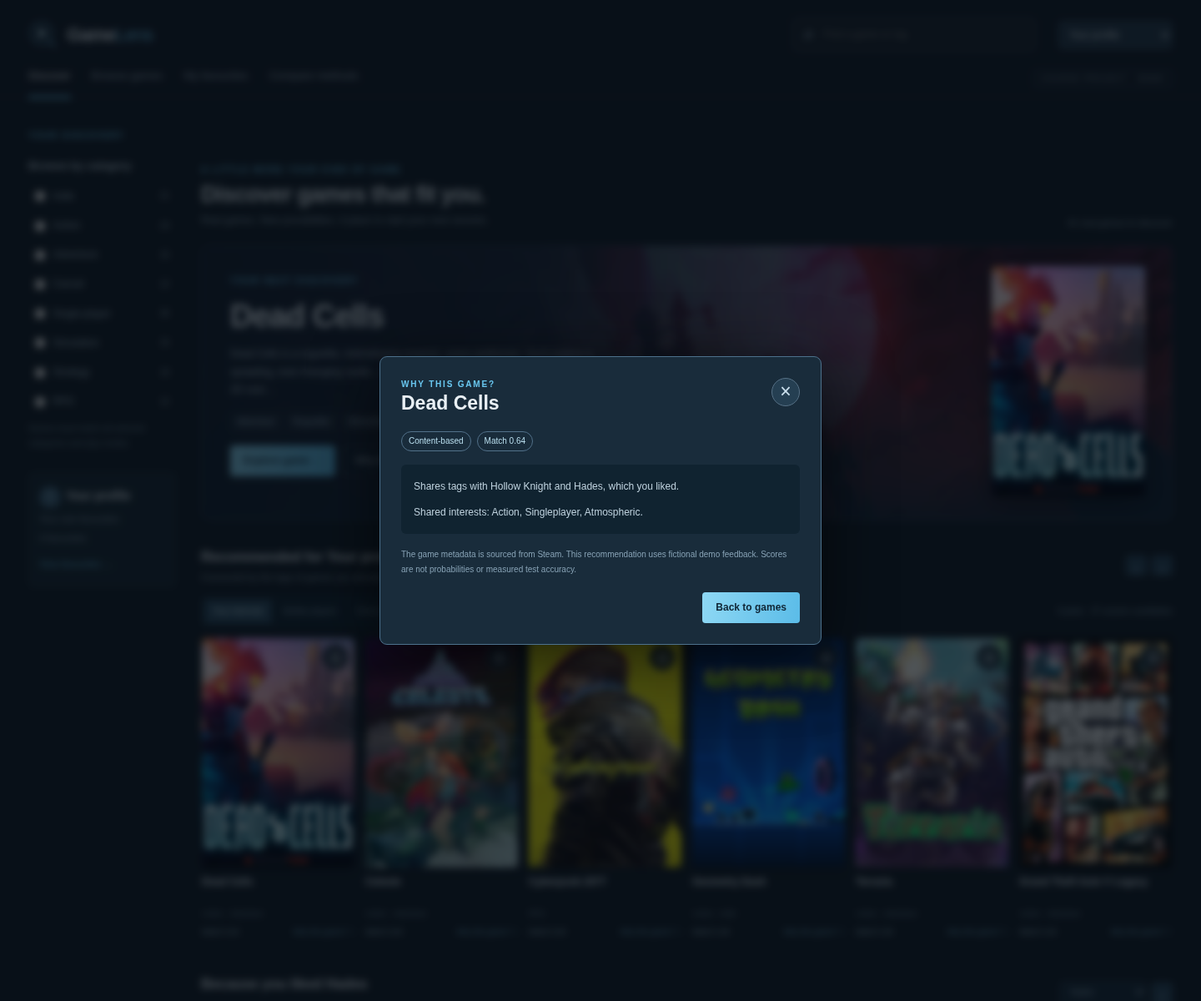
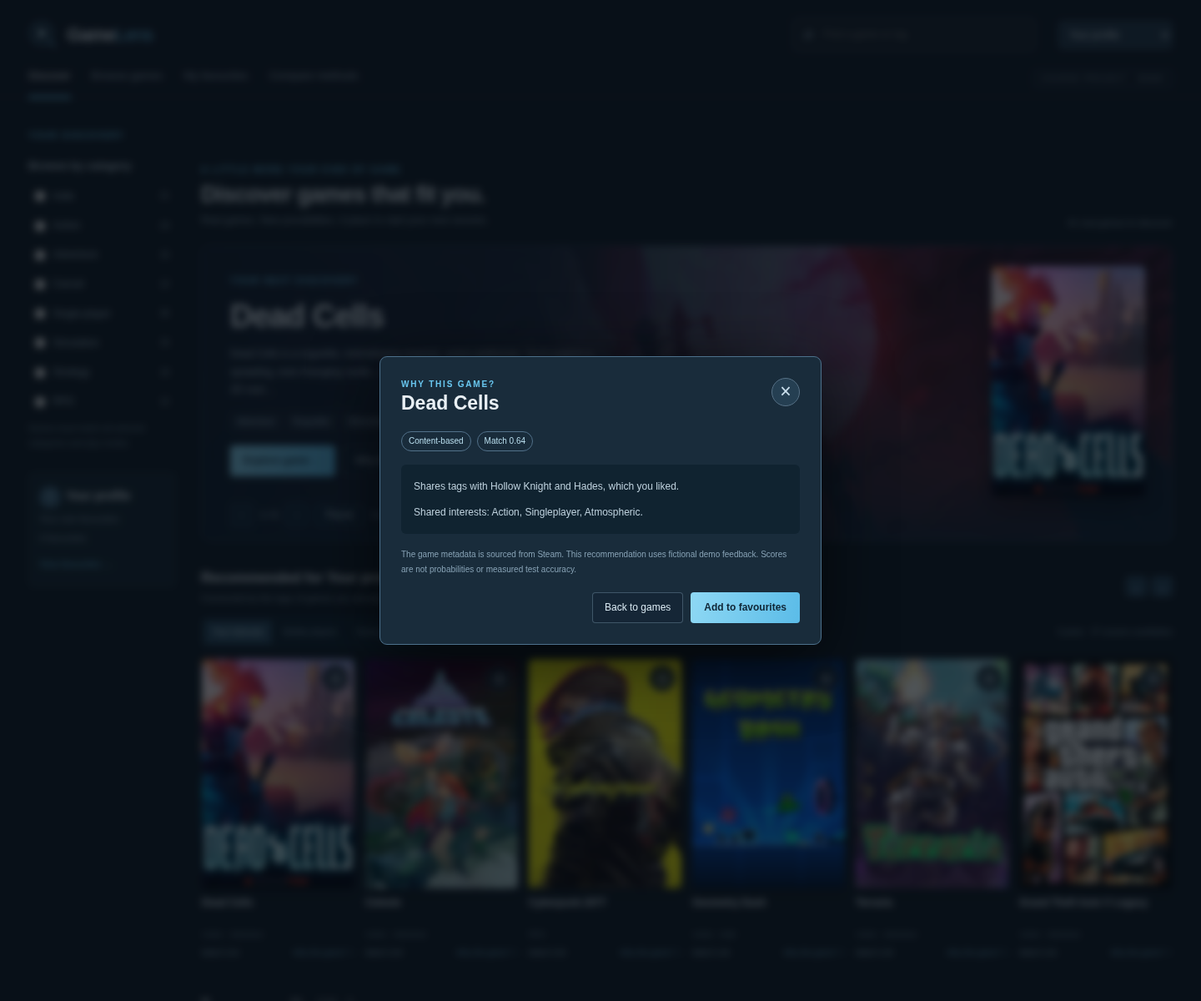
Rotate featured games and replace favourites directly from recommendations

diff --git a/part_b/demo/index.html b/part_b/demo/index.html
@@ -14,13 +14,15 @@ dialog{width:min(740px,calc(100% - 28px));padding:25px;border:1px solid #4d718c;
 @media(prefers-reduced-motion:reduce){*{scroll-behavior:auto!important;transition:none!important;animation:none!important}}
 .selection-bar{display:flex;align-items:center;gap:16px;padding:14px 16px;margin-bottom:18px;background:#172c3c;border:1px solid #3a566c;border-radius:6px}.selection-bar p{flex:1;margin:0;color:var(--muted);font-size:11px}.selection-bar .primary{white-space:nowrap}.selection-count{font-size:11px;white-space:nowrap;color:#e5ce91}.empty-actions{display:flex;justify-content:center;gap:9px;flex-wrap:wrap}.browser-bar{flex-wrap:wrap}.browser-bar input{flex:1;min-width:140px}.browser-bar>span{white-space:nowrap}
 @media(max-width:550px){.selection-bar{flex-wrap:wrap;gap:10px;padding:12px}.selection-bar p{flex-basis:100%;font-size:10px}.selection-count{font-size:10px}.selection-bar .primary{margin-left:auto;font-size:10px;padding:8px 10px}.browser-bar input{min-width:0;flex:1 1 150px}.empty{padding:24px 14px}.empty-actions .primary,.empty-actions .secondary{font-size:11px}}
+.hero-slide{position:relative;min-height:inherit}.hero-content{padding-bottom:77px}.hero-controls{position:absolute;z-index:2;bottom:17px;left:34px;display:flex;align-items:center;gap:9px;color:#b5cede;font-size:11px}.hero-controls button{display:grid;place-items:center;min-width:27px;height:27px;padding:0 8px;border:1px solid #5c7c9299;border-radius:4px;background:#122536d9;color:#d5e9f5;font-size:12px}.hero-controls button:hover{background:#2b506b}.hero-controls #heroToggle{min-width:58px}.hero-interval{font-size:10px;color:#93b3c9}.hero-measure{position:absolute;top:0;left:0;width:100%;visibility:hidden;pointer-events:none}.reason-actions{gap:9px;flex-wrap:wrap}.replacement-dialog[open]{display:flex;flex-direction:column;overflow:hidden}.replacement-dialog .dialog-header,.replacement-incoming,.replacement-actions{flex-shrink:0}.replacement-incoming{display:flex;gap:12px;align-items:center;padding:10px 12px;margin:0 0 14px;background:#112330;border:1px solid #41647c;border-radius:5px;font-size:12px}.replacement-incoming img{width:40px;height:60px;object-fit:cover;border-radius:3px}.replacement-incoming span{font-size:10px;color:var(--muted);display:block}.replacement-incoming strong{overflow-wrap:anywhere}#replacementForm{display:flex;flex-direction:column;min-height:0}.replacement-list{display:grid;grid-template-columns:repeat(2,minmax(0,1fr));gap:8px;overflow:auto;min-height:0;max-height:47vh;overscroll-behavior:contain;touch-action:pan-y;padding:3px;scrollbar-width:thin}.replacement-choice{display:flex;align-items:center;gap:9px;padding:8px;border:1px solid #425c70;border-radius:5px;background:#142736;cursor:pointer;min-width:0;font-size:11px}.replacement-choice:has(input:checked){border-color:#e7c568;background:#3b3524}.replacement-choice:focus-within{outline:2px solid var(--blue);outline-offset:1px}.replacement-choice input{accent-color:#e7c568;margin:0;flex-shrink:0}.replacement-choice img{width:30px;height:45px;object-fit:cover;border-radius:2px;flex-shrink:0}.replacement-choice span{overflow-wrap:anywhere}.replacement-actions{display:flex;gap:9px;justify-content:flex-end;padding-top:16px}
+@media(max-width:1150px){.hero-controls{left:26px}}@media(max-width:550px){.hero-controls{left:22px;gap:7px}.hero-interval{font-size:9px}.replacement-list{grid-template-columns:1fr}.replacement-choice{font-size:10px}.replacement-incoming{font-size:11px}.replacement-actions .primary,.replacement-actions .secondary{font-size:11px}}
 </style>
 </head>
 <body>
 <header class="topbar"><div class="top-inner"><div class="top-line"><a class="brand" href="#discover" aria-label="GameLens home"><svg viewBox="0 0 40 40" fill="none" aria-hidden="true"><circle cx="18" cy="18" r="14.5" stroke="#72c8ef" stroke-width="1.5"/><path d="m28.5 28.5 8 8" stroke="#72c8ef" stroke-width="2" stroke-linecap="round"/><path d="m14 10.8 12 7.2-12 7.2V10.8Z" fill="#b9e6fa"/></svg><span>Game<b>Lens</b></span></a><label class="search"><input id="globalSearch" type="search" placeholder="Find a game or tag" aria-label="Search games"></label><div class="player-tools"><select id="profile" aria-label="Choose a player profile"><option value="new">Your profile</option></select></div></div><div class="nav-row"><nav class="nav" aria-label="Main navigation"><button data-view="discover" class="active">Discover</button><button data-view="browse">Browse games</button><button data-view="favourites">My favourites</button><button data-view="compare">Compare methods</button></nav><span class="demo-label">COURSE PROJECT · DEMO</span></div></div></header>
 <div class="workspace"><aside class="sidebar"><div id="categoryFilters"><div class="eyebrow">YOUR DISCOVERY</div><h2>Browse by category</h2><div class="facet-list" id="facetList"></div><button class="clear" id="clearFilters">Clear filters</button><p class="sidebar-note">Games must match all selected categories and play modes.</p></div><div class="profile-mini"><div><span class="avatar" id="avatar">A</span><strong id="playerName">Alex</strong></div><p id="playerTaste">Strategy · Puzzles</p><p id="profileCount"></p><button data-view="favourites">View favourites →</button></div></aside>
 <main id="main"><div class="filter-summary" id="filterSummary"></div><p class="page-status" id="status" role="status" aria-live="polite">Loading your discovery…</p>
-<section id="discoverView" hidden><div class="page-heading"><div><div class="eyebrow">A LITTLE MORE YOUR KIND OF GAME</div><h1>Discover games that fit you.</h1><p>Real games. New possibilities. A place to start your next session.</p></div><span class="catalogue-count" id="catalogueCount"></span></div><section class="hero" id="hero" hidden></section>
+<section id="discoverView" hidden><div class="page-heading"><div><div class="eyebrow">A LITTLE MORE YOUR KIND OF GAME</div><h1>Discover games that fit you.</h1><p>Real games. New possibilities. A place to start your next session.</p></div><span class="catalogue-count" id="catalogueCount"></span></div><section class="hero" id="hero" role="region" aria-roledescription="carousel" aria-label="Featured recommendations" hidden><div class="hero-slide" id="heroSlide"></div><div class="hero-controls" id="heroControls" hidden><button data-hero="previous" aria-label="Previous featured game">‹</button><span id="heroPosition" aria-live="off"></span><button data-hero="next" aria-label="Next featured game">›</button><button id="heroToggle" data-hero="toggle" aria-pressed="false" aria-label="Pause automatic game rotation">Pause</button><span class="hero-interval">Every 6 seconds</span></div></section>
 <section class="section"><div class="section-top"><div><h2 id="resultTitle">Recommended for you</h2><p class="section-sub" id="resultSubtitle">Discover games that connect with your favourites.</p></div><div class="row-actions"><button class="row-arrow" data-scroll="recommendations:-1" aria-label="Previous recommendations">‹</button><button class="row-arrow" data-scroll="recommendations:1" aria-label="Next recommendations">›</button></div></div><div class="section-controls"><div class="methods" role="group" aria-label="Recommendation method"><button class="method" data-method="content" aria-pressed="true">Your interests</button><button class="method" data-method="collaborative" aria-pressed="false">Similar players</button><button class="method" data-method="popular" aria-pressed="false">Demo popularity</button></div><select id="limit" class="tiny-select" aria-label="Number of recommendations"><option value="6">Show 6 games</option><option value="12">Show 12 games</option></select><span id="resultMeta" class="results-meta"></span></div><div class="shelf" id="recommendations" aria-busy="true"></div></section>
 <section class="section" id="relatedSection" hidden><div class="section-top"><div><h2 id="relatedTitle"></h2><p class="section-sub">A fresh starting point, based on one game.</p></div><div class="row-actions"><select id="seedSelect" class="tiny-select" aria-label="Choose a favourite for related recommendations"></select><button class="row-arrow" data-scroll="relatedGames:1" aria-label="Next related games">›</button></div></div><div class="shelf" id="relatedGames"></div></section>
 <section class="section"><div class="section-top"><div><h2>Most played on Steam</h2><p class="section-sub" id="chartDate">Official chart snapshot, separate from personal recommendations.</p></div><div class="row-actions"><button class="section-link" id="browseChart">Browse chart →</button><button class="row-arrow" data-scroll="chartGames:1" aria-label="Next chart games">›</button></div></div><div class="shelf" id="chartGames"></div></section></section>
@@ -29,9 +31,10 @@ dialog{width:min(740px,calc(100% - 28px));padding:25px;border:1px solid #4d718c;
 <section id="compareView" hidden><div class="page-heading"><div><div class="eyebrow">A LOOK UNDER THE HOOD</div><h1>Compare recommendation methods</h1><p>Three ways to explore the same catalogue and example feedback.</p></div></div><div class="scope-note">This is a ranking demonstration, not a test-set evaluation. Content similarity, peer support and like counts use different scales. Their numbers are not directly comparable or probabilities. The formal project still needs a real interaction dataset and held-out evaluation.</div><div class="comparison-grid" id="comparisonGrid"></div></section>
 <div class="sample-note"><span id="dataNote"></span> <button id="openSources">View sources & artwork credits ↗</button></div></main></div>
 <footer><span>GAMELENS · PERSONALISED GAME DISCOVERY</span><span>ITP4524 · PYTHON RECOMMENDATION PROTOTYPE</span></footer><div class="toast" id="toast" role="status" hidden></div>
-<dialog id="reasonDialog" class="reason-dialog" aria-labelledby="reasonTitle" aria-describedby="reasonSummary reasonDetail"><div class="dialog-header"><div><div class="eyebrow">WHY THIS GAME?</div><h2 id="reasonTitle"></h2></div><button class="close" id="closeReason" aria-label="Close recommendation explanation" autofocus>×</button></div><div class="reason-meta"><span id="reasonMethod"></span><span id="reasonScore"></span></div><div class="reason-copy"><p id="reasonSummary"></p><p id="reasonDetail"></p></div><p class="reason-note">The game metadata is sourced from Steam. This recommendation uses fictional demo feedback. Scores are not probabilities or measured test accuracy.</p><div class="reason-actions"><button class="primary" id="dismissReason">Back to games</button></div></dialog>
+<dialog id="reasonDialog" class="reason-dialog" aria-labelledby="reasonTitle" aria-describedby="reasonSummary reasonDetail"><div class="dialog-header"><div><div class="eyebrow">WHY THIS GAME?</div><h2 id="reasonTitle"></h2></div><button class="close" id="closeReason" aria-label="Close recommendation explanation" autofocus>×</button></div><div class="reason-meta"><span id="reasonMethod"></span><span id="reasonScore"></span></div><div class="reason-copy"><p id="reasonSummary"></p><p id="reasonDetail"></p></div><p class="reason-note">The game metadata is sourced from Steam. This recommendation uses fictional demo feedback. Scores are not probabilities or measured test accuracy.</p><div class="reason-actions"><button class="secondary" id="dismissReason">Back to games</button><button class="primary" id="reasonFavourite">Add to favourites</button></div></dialog>
 <dialog id="detailDialog" aria-labelledby="detailTitle"><div class="dialog-header"><div><div class="eyebrow">GAME DETAILS</div><h2 id="detailTitle"></h2></div><button class="close" data-close="detailDialog" aria-label="Close game details">×</button></div><div id="detailContent"></div></dialog>
 <dialog id="sourcesDialog" aria-labelledby="sourcesTitle"><div class="dialog-header"><div><div class="eyebrow">PROVENANCE</div><h2 id="sourcesTitle">Real games. Traceable sources.</h2></div><button class="close" data-close="sourcesDialog" aria-label="Close sources">×</button></div><div class="source-copy" id="sourceContent"></div></dialog>
+<dialog id="replacementDialog" class="replacement-dialog" aria-labelledby="replacementTitle" aria-describedby="replacementHint"><div class="dialog-header"><div><h2 id="replacementTitle">Replace a favourite</h2><p id="replacementHint">You have 8 favourites. Choose one to replace with this game.</p></div><button class="close" data-close="replacementDialog" aria-label="Close favourite replacement">×</button></div><div class="replacement-incoming" id="replacementIncoming"></div><form id="replacementForm"><div class="replacement-list" id="replacementOptions"></div><div class="replacement-actions"><button type="button" class="secondary" data-close="replacementDialog">Cancel</button><button type="submit" class="primary" id="confirmReplacement" disabled>Replace &amp; add</button></div></form></dialog>
 <script>
 'use strict';
 const $=id=>document.getElementById(id);
@@ -39,6 +42,8 @@ const esc=value=>String(value??'').replace(/[&<>"']/g,c=>({'&':'&amp;','<':'&lt;
 const FILTERS=['Indie','Action','Adventure','Casual','Single-player','Simulation','Strategy','RPG'];
 let catalog,byId={},requestNumber=0,compareNumber=0,toastTimer,storageAvailable=true;
 let recommendations=[],related=[],explanations=new Map();
+const HERO_INTERVAL=6000;
+let heroIndex=0,heroTimer=null,heroPaused=false,heroHovered=false,heroResizeTimer=null,pendingFavourite=null;
 const state={profile_id:'new',method:'popular',liked:[],filters:[],limit:6,view:'browse',search:'',sort:'title',seed_id:null};
 const FAVOURITES_KEY='gamelens.favourites.v1';
 function getActivePlayer(){if(state.profile_id==='new'){const ids=state.liked||[];return {id:'new',name:'Your profile',initial:'Y',taste:ids.length?'Your own favourites':'Choose games you enjoy',ratings:Object.fromEntries(ids.map(id=>[id,5]))};}return catalog.profiles.find(p=>p.id===state.profile_id);}
@@ -58,7 +63,7 @@ function updatePlayer(){
  $('profile').value=state.profile_id;$('avatar').textContent=player.initial;$('playerName').textContent=player.name;$('playerTaste').textContent=player.taste;
  $('profileCount').textContent=`${count} ${count===1?'favourite':'favourites'}`;
  $('selectionCount').textContent=`${count} / 8 favourites`;
- $('browseHint').textContent=count===8?'You have 8 favourites. Remove a gold star to make room for another game.':'Star games you enjoy to personalise your recommendations.';
+ $('browseHint').textContent=count===8?'You have 8 favourites. Star another game to choose one to replace.':'Star games you enjoy to personalise your recommendations.';
  $('viewPicks').textContent=count?'View recommendations →':'View popular picks →';
  $('favouritesNote').textContent=state.profile_id==='new'?`These favourites shape your recommendations.${storageAvailable?' Saved in this browser for this address.':''}`:`${player.name} is a fictional example player. Changing a star copies these favourites to Your profile.`;
  renderFavourites();
@@ -82,7 +87,29 @@ function emptyRecommendations(data){
  if(data.method==='collaborative')return empty(data.neighbour_count?'No unseen picks from similar players':'No similar players yet','The example feedback does not support more picks for these favourites. Your interests can still use the game tags.','<button class="primary" data-method="content">Use your interests →</button>');
  return empty('No matching picks yet','Try adding another favourite to give us more to work with.',browse);
 }
-function renderHero(){const game=recommendations[0];$('hero').hidden=!game;if(!game)return;const key=explanationKey(game,state.method);$('hero').innerHTML=`<div class="hero-bg" style="background-image:url('${game.hero_url||game.header_url}')"></div><div class="hero-content"><div class="eyebrow">${state.method==='popular'?'POPULAR IN THE DEMO':'YOUR NEXT DISCOVERY'}</div><h2>${esc(game.title)}</h2><p class="hero-description">${esc(game.description.length>190?game.description.slice(0,187)+'…':game.description)}</p><div class="hero-tags">${game.tags.slice(0,3).map(t=>`<span class="tag">${esc(t)}</span>`).join('')}</div><div class="hero-actions"><button class="primary" data-detail="${esc(game.id)}">Explore game →</button><button class="secondary" data-why="${esc(key)}">Why this pick?</button></div></div><img class="hero-poster" src="${esc(game.cover_url)}" alt="${esc(game.title)} cover" width="300" height="450">`;}
+function heroCopy(game){const key=explanationKey(game,state.method);return `<div class="hero-content"><div class="eyebrow">${state.method==='popular'?'POPULAR IN THE DEMO':'YOUR NEXT DISCOVERY'}</div><h2>${esc(game.title)}</h2><p class="hero-description">${esc(game.description.length>190?game.description.slice(0,187)+'…':game.description)}</p><div class="hero-tags">${game.tags.slice(0,3).map(t=>`<span class="tag">${esc(t)}</span>`).join('')}</div><div class="hero-actions"><button class="primary" data-detail="${esc(game.id)}">Explore game →</button><button class="secondary" data-why="${esc(key)}">Why this pick?</button></div></div>`;}
+function stopHeroRotation(){clearTimeout(heroTimer);heroTimer=null;}
+function scheduleHeroRotation(){
+ stopHeroRotation();
+ if(heroPaused||heroHovered||recommendations.length<2||state.view!=='discover'||document.hidden||document.querySelector('dialog[open]')||$('heroSlide').contains(document.activeElement)||$('recommendations').getAttribute('aria-busy')==='true')return;
+ heroTimer=setTimeout(()=>{heroIndex=(heroIndex+1)%recommendations.length;showHeroSlide();scheduleHeroRotation();},HERO_INTERVAL);
+}
+function sizeHero(){
+ if(!recommendations.length||$('hero').hidden||state.view!=='discover')return;
+ // Keep the banner height stable across this recommendation set.
+ const measure=document.createElement('div');measure.className='hero-measure';measure.setAttribute('aria-hidden','true');measure.inert=true;measure.innerHTML=recommendations.map(heroCopy).join('');$('hero').append(measure);
+ const height=Math.max(parseFloat(getComputedStyle($('hero')).minHeight)||0,...[...measure.children].map(element=>element.getBoundingClientRect().height));
+ $('heroSlide').style.minHeight=`${Math.ceil(height)}px`;measure.remove();
+}
+function showHeroSlide(){
+ const game=recommendations[heroIndex];if(!game)return;
+ $('hero').dataset.game=game.id;
+ $('heroSlide').innerHTML=`<div class="hero-bg" style="background-image:url('${game.hero_url||game.header_url}')"></div>${heroCopy(game)}<img class="hero-poster" src="${esc(game.cover_url)}" alt="${esc(game.title)} cover" width="300" height="450">`;
+ $('heroPosition').textContent=`${heroIndex+1} / ${recommendations.length}`;
+ $('heroToggle').textContent=heroPaused?'Play':'Pause';$('heroToggle').setAttribute('aria-pressed',String(heroPaused));$('heroToggle').setAttribute('aria-label',heroPaused?'Resume automatic game rotation':'Pause automatic game rotation');
+}
+function renderHero(){stopHeroRotation();heroIndex=0;$('hero').hidden=!recommendations.length;$('heroControls').hidden=recommendations.length<2;if(!recommendations.length){$('heroSlide').replaceChildren();delete $('hero').dataset.game;return;}showHeroSlide();sizeHero();scheduleHeroRotation();}
+function controlHero(action){if(!recommendations.length||$('recommendations').getAttribute('aria-busy')==='true')return;if(action==='toggle')heroPaused=!heroPaused;else heroIndex=(heroIndex+(action==='next'?1:-1)+recommendations.length)%recommendations.length;showHeroSlide();scheduleHeroRotation();}
 function renderRecommendations(data){
  recommendations=data.results;$('resultTitle').textContent=state.method==='popular'?'Popular among example players':`Recommended for ${getActivePlayer().name}`;
  $('resultSubtitle').textContent=state.method==='collaborative'?'Games supported by example players with shared favourites.':state.method==='popular'?(likedIds().length?'A non-personalised baseline, using fictional sample likes.':'Popular picks to get started. Star games you enjoy to personalise your recommendations.'):'Connected by the tags of games you already like.';
@@ -105,35 +132,61 @@ function setView(view){
  state.view=view;document.querySelectorAll('.nav [data-view]').forEach(button=>{const active=button.dataset.view===view;button.classList.toggle('active',active);if(active)button.setAttribute('aria-current','page');else button.removeAttribute('aria-current');});
  for(const name of ['discover','browse','favourites','compare'])$(name+'View').hidden=name!==view;
  $('categoryFilters').hidden=view==='favourites';$('filterSummary').hidden=view==='favourites';$('globalSearch').value=view==='browse'?state.search:'';document.querySelector('.profile-mini [data-view="favourites"]').hidden=view==='favourites';
- if(view==='browse')renderBrowse();if(view==='favourites')renderFavourites();if(view==='compare')loadComparison();
+ if(view==='browse')renderBrowse();if(view==='favourites')renderFavourites();if(view==='compare')loadComparison();if(view==='discover')sizeHero();scheduleHeroRotation();
 }
 function startBrowsing(){state.search='';state.filters=[];renderFilters();setView('browse');loadRecommendations();}
 function clearFilters(){state.filters=[];renderFilters();loadRecommendations();}
-async function loadRecommendations(feedbackDelay=0){const current=++requestNumber;++compareNumber;for(const dialog of document.querySelectorAll('dialog[open]'))dialog.close();document.querySelectorAll('[data-why]').forEach(b=>b.disabled=true);$('recommendations').setAttribute('aria-busy','true');$('status').textContent='Finding your next games…';
+async function loadRecommendations(feedbackDelay=0){stopHeroRotation();$('heroControls').querySelectorAll('button').forEach(button=>button.disabled=true);const current=++requestNumber;++compareNumber;for(const dialog of document.querySelectorAll('dialog[open]'))dialog.close();document.querySelectorAll('[data-why]').forEach(b=>b.disabled=true);$('recommendations').setAttribute('aria-busy','true');$('status').textContent='Finding your next games…';
  const liked=likedIds();const seed=state.seed_id||(liked[0]||null);try{const [main,similar]=await Promise.all([api(params()),seed?api(params('content',{seed_id:seed})):Promise.resolve(null),new Promise(resolve=>setTimeout(resolve,feedbackDelay))]);if(current!==requestNumber)return;explanations.clear();renderRecommendations(main);renderRelated(similar,seed);renderChart();renderBrowse();renderFavourites();$('status').textContent='';if(state.view==='compare')loadComparison();}
  catch(error){if(current===requestNumber){$('status').textContent='Unable to load recommendations. Keep demo.py running and try again.';}}
- finally{if(current===requestNumber)$('recommendations').setAttribute('aria-busy','false');}
+ finally{if(current===requestNumber){$('recommendations').setAttribute('aria-busy','false');if(!$('status').textContent){$('heroControls').querySelectorAll('button').forEach(button=>button.disabled=false);scheduleHeroRotation();}}}
 }
 async function loadComparison(){const current=++compareNumber;const methods=['content','collaborative','popular'];$('comparisonGrid').innerHTML='<p>Loading method rankings…</p>';try{const results=await Promise.all(methods.map(method=>api(params(method,{limit:6}))));if(current!==compareNumber)return;const labels={content:['Content-based','Cosine similarity from Steam tags.'],collaborative:['Collaborative','Weighted support from similar example players.'],popular:['Popularity baseline','Number of positive ratings in the fictional sample.']};$('comparisonGrid').innerHTML=results.map(data=>`<section class="compare-column"><h2>${labels[data.method][0]}</h2><p>${labels[data.method][1]}</p>${data.results.length?data.results.map((g,index)=>{const key=explanationKey(g,data.method,'comparison');return `<div class="compare-row"><span>${index+1}</span><img src="${esc(g.cover_url)}" alt="${esc(g.title)} cover" width="300" height="450"><div><strong>${esc(g.title)}</strong><span>${data.method==='popular'?`${g.score} demo likes`:`${data.method==='content'?'Match':'Support'} ${g.score.toFixed(2)}`}</span><br><button data-why="${esc(key)}">Why this game?</button></div></div>`;}).join(''):emptyRecommendations(data)}</section>`).join('');}catch(error){if(current===compareNumber)$('comparisonGrid').innerHTML=empty('Comparison unavailable','Keep demo.py running and try again.');}}
 // Shared fixed-body lock keeps all modal scrolling separate from the page.
 const modalTriggers=new Map();let backgroundSnapshot=null;
-function openModal(dialog,trigger){if(dialog.open)return;if(modalTriggers.size===0){const root=document.documentElement,body=document.body;const gap=window.innerWidth-root.clientWidth;const padding=parseFloat(getComputedStyle(body).paddingRight)||0;backgroundSnapshot={x:window.scrollX,y:window.scrollY,rootStyle:root.getAttribute('style'),bodyStyle:body.getAttribute('style')};root.style.overflow='hidden';root.style.overscrollBehavior='none';body.style.position='fixed';body.style.top=`-${backgroundSnapshot.y}px`;body.style.left=`-${backgroundSnapshot.x}px`;body.style.width='100%';body.style.overflow='hidden';body.style.paddingRight=`${padding+gap}px`;}modalTriggers.set(dialog,trigger);dialog.showModal();}
-document.querySelectorAll('dialog').forEach(dialog=>{dialog.addEventListener('close',()=>{const trigger=modalTriggers.get(dialog);modalTriggers.delete(dialog);if(modalTriggers.size===0&&backgroundSnapshot){const saved=backgroundSnapshot;for(const [element,style] of [[document.documentElement,saved.rootStyle],[document.body,saved.bodyStyle]]){if(style===null)element.removeAttribute('style');else element.setAttribute('style',style);}backgroundSnapshot=null;window.scrollTo(saved.x,saved.y);if(trigger&&trigger.isConnected)trigger.focus({preventScroll:true});}});dialog.addEventListener('click',event=>{if(event.target!==dialog)return;const b=dialog.getBoundingClientRect();if(event.clientX<b.left||event.clientX>b.right||event.clientY<b.top||event.clientY>b.bottom)dialog.close();});});
-function showReason(key,trigger){const item=explanations.get(key);if(!item)return;const {game,method}=item;$('reasonTitle').textContent=game.title;$('reasonSummary').textContent=game.reason;$('reasonDetail').textContent=game.detail;$('reasonMethod').textContent={content:'Content-based',collaborative:'Similar players',popular:'Demo popularity'}[method];$('reasonScore').textContent=method==='popular'?`${game.score} example likes`:`${method==='content'?'Match':'Peer support'} ${game.score.toFixed(2)}`;openModal($('reasonDialog'),trigger);}
+function openModal(dialog,trigger){if(dialog.open)return;stopHeroRotation();if(modalTriggers.size===0){const root=document.documentElement,body=document.body;const gap=window.innerWidth-root.clientWidth;const padding=parseFloat(getComputedStyle(body).paddingRight)||0;backgroundSnapshot={x:window.scrollX,y:window.scrollY,rootStyle:root.getAttribute('style'),bodyStyle:body.getAttribute('style'),trigger};root.style.overflow='hidden';root.style.overscrollBehavior='none';body.style.position='fixed';body.style.top=`-${backgroundSnapshot.y}px`;body.style.left=`-${backgroundSnapshot.x}px`;body.style.width='100%';body.style.overflow='hidden';body.style.paddingRight=`${padding+gap}px`;}modalTriggers.set(dialog,trigger);dialog.showModal();}
+document.querySelectorAll('dialog').forEach(dialog=>{dialog.addEventListener('close',()=>{const trigger=modalTriggers.get(dialog);modalTriggers.delete(dialog);if(modalTriggers.size===0&&backgroundSnapshot){const saved=backgroundSnapshot;for(const [element,style] of [[document.documentElement,saved.rootStyle],[document.body,saved.bodyStyle]]){if(style===null)element.removeAttribute('style');else element.setAttribute('style',style);}backgroundSnapshot=null;window.scrollTo(saved.x,saved.y);if(saved.trigger?.isConnected)saved.trigger.focus({preventScroll:true});}else if(trigger?.isConnected&&trigger.closest('dialog')?.open){trigger.focus({preventScroll:true});}if(dialog.id==='replacementDialog')pendingFavourite=null;scheduleHeroRotation();});dialog.addEventListener('click',event=>{if(event.target!==dialog)return;const b=dialog.getBoundingClientRect();if(event.clientX<b.left||event.clientX>b.right||event.clientY<b.top||event.clientY>b.bottom)dialog.close();});});
+function showReason(key,trigger){const item=explanations.get(key);if(!item)return;const {game,method}=item;$('reasonTitle').textContent=game.title;$('reasonSummary').textContent=game.reason;$('reasonDetail').textContent=game.detail;$('reasonMethod').textContent={content:'Content-based',collaborative:'Similar players',popular:'Demo popularity'}[method];$('reasonScore').textContent=method==='popular'?`${game.score} example likes`:`${method==='content'?'Match':'Peer support'} ${game.score.toFixed(2)}`;const liked=likedIds().includes(game.id);$('reasonFavourite').dataset.like=game.id;$('reasonFavourite').textContent=liked?'Remove from favourites':'Add to favourites';$('reasonFavourite').setAttribute('aria-pressed',String(liked));openModal($('reasonDialog'),trigger);}
 
 function applyLikes(ids,feedbackDelay=0){state.liked=[...new Set(ids)];state.profile_id='new';state.method=ids.length?'content':'popular';state.seed_id=null;saveFavourites();updatePlayer();renderFilters();loadRecommendations(feedbackDelay);}
-function toggleLike(id,trigger){const ids=likedIds();const selected=!ids.includes(id);if(!selected)ids.splice(ids.indexOf(id),1);else{if(ids.length>=8){showToast('Choose up to 8 favourites. Remove a gold star in My favourites to make room.');return;}ids.push(id);}
- document.querySelectorAll('.favourite').forEach(button=>{if(button.dataset.like!==id)return;button.setAttribute('aria-pressed',String(selected));button.setAttribute('aria-label',`${selected?'Remove':'Add'} ${byId[id].title} ${selected?'from':'to'} favourites`);button.classList.remove('is-lighting');});
- const animate=selected&&trigger?.classList.contains('favourite')&&!window.matchMedia('(prefers-reduced-motion: reduce)').matches;
+function commitFavouriteChange(ids,id,trigger,message){
+ const selected=ids.includes(id);
+ document.querySelectorAll('.favourite').forEach(button=>{const liked=ids.includes(button.dataset.like);button.setAttribute('aria-pressed',String(liked));button.setAttribute('aria-label',`${liked?'Remove':'Add'} ${byId[button.dataset.like].title} ${liked?'from':'to'} favourites`);button.classList.remove('is-lighting');});
+ const animate=selected&&trigger?.classList.contains('favourite')&&trigger.isConnected&&!window.matchMedia('(prefers-reduced-motion: reduce)').matches;
  if(animate)trigger.classList.add('is-lighting');
  for(const dialog of document.querySelectorAll('dialog[open]'))dialog.close();
  // Keep the clicked card visible while its star lights up; requests run in parallel.
- applyLikes(ids,animate?460:0);showToast(selected?'Added to your custom favourites.':'Removed from your custom favourites.');
+ applyLikes(ids,animate?460:0);showToast(message);
+}
+function openFavouriteReplacement(id,trigger){
+ const ids=likedIds();pendingFavourite={id,trigger,profile_id:state.profile_id,ids:[...ids]};
+ $('replacementIncoming').innerHTML=`<img src="${esc(byId[id].cover_url)}" alt="" width="300" height="450"><div><span>New favourite</span><strong>${esc(byId[id].title)}</strong></div>`;
+ $('replacementOptions').innerHTML=ids.map(key=>`<label class="replacement-choice"><input type="radio" name="replaceFavourite" value="${esc(key)}" required><img src="${esc(byId[key].cover_url)}" alt="" width="300" height="450"><span>${esc(byId[key].title)}</span></label>`).join('');
+ $('confirmReplacement').disabled=true;openModal($('replacementDialog'),trigger);$('replacementOptions').scrollTop=0;
+}
+function confirmFavouriteReplacement(){
+ const pending=pendingFavourite,chosen=$('replacementOptions').querySelector('input:checked');if(!pending||!chosen)return;
+ const ids=likedIds();if(pending.profile_id!==state.profile_id||JSON.stringify(ids)!==JSON.stringify(pending.ids)||!ids.includes(chosen.value)||ids.includes(pending.id)){showToast('Your favourites changed. Choose the new game again.');$('replacementDialog').close();return;}
+ const removed=chosen.value;const next=ids.map(id=>id===removed?pending.id:id);pendingFavourite=null;
+ commitFavouriteChange(next,pending.id,pending.trigger,`Replaced ${byId[removed].title} with ${byId[pending.id].title}.`);
+}
+function toggleLike(id,trigger){
+ if(!Object.hasOwn(byId,id))return;
+ const ids=likedIds(),selected=!ids.includes(id);
+ if(!selected)ids.splice(ids.indexOf(id),1);else{if(ids.length>=8){openFavouriteReplacement(id,trigger);return;}ids.push(id);}
+ commitFavouriteChange(ids,id,trigger,selected?'Added to your custom favourites.':'Removed from your custom favourites.');
 }
 function showDetail(id,trigger){const game=byId[id];if(!game)return;$('detailTitle').textContent=game.title;$('detailContent').innerHTML=`<div class="detail-body"><img class="detail-poster" src="${esc(game.cover_url)}" alt="${esc(game.title)} cover" width="300" height="450"><div class="detail-copy"><p>${esc(game.description)}</p><div class="hero-tags">${game.tags.slice(0,6).map(t=>`<span class="tag">${esc(t)}</span>`).join('')}</div><div class="detail-facts">Developer: ${esc(game.developers.join(', ')||'Not supplied')}<br>Publisher: ${esc(game.publishers.join(', ')||'Not supplied')}<br>${game.release_date.coming_soon?'Planned release':'Release date'}: ${esc(game.release_date.date||'Not supplied')}<br>Steam App ID: ${game.steam_app_id}</div></div></div><div class="detail-actions"><button class="primary" data-like="${esc(id)}">${likedIds().includes(id)?'Remove from':'Add to'} favourites</button><button class="secondary" data-similar="${esc(id)}">See similar games</button><a class="secondary" href="${esc(game.store_url)}" target="_blank" rel="noopener noreferrer">View on Steam ↗</a></div><p class="source-date">Official metadata and artwork retrieved ${esc(formatDate(game.source.retrieved_at_utc))}. Artwork © its respective rights holders.</p>`;openModal($('detailDialog'),trigger);}
 function showSources(trigger){const info=catalog.source_info;$('sourceContent').innerHTML=`<ul><li><strong>Game catalogue:</strong> ${catalog.games.length} verified Steam games. Names, descriptions, genres and tags come from official Steam store data.</li><li><strong>Artwork:</strong> official Steam library capsules, headers and hero art. All displayed portrait covers are complete 2:3 images stored locally for this demo.</li><li><strong>Most-played section:</strong> a <a href="${esc(info.chart_page_url)}" target="_blank" rel="noopener noreferrer">Steam chart snapshot</a>, retrieved ${esc(formatDate(info.retrieved_at_utc))}. Chart rollup: ${esc(formatDate(info.chart_rollup_date*1000))}. Non-game software was excluded; original ranks are retained.</li><li><strong>Player feedback:</strong> ${catalog.profiles.length} fictional example profiles. It is not a downloaded Steam interaction dataset.</li><li><strong>Evaluation:</strong> no real-data recommendation test results are claimed in this prototype.</li></ul><p>${esc(info.rights_note)}</p><a class="secondary" href="/sources/artwork_sources.csv" download>Download artwork source record</a>`;openModal($('sourcesDialog'),trigger);}
-document.addEventListener('click',event=>{const button=event.target.closest('button');if(!button)return;if(button.dataset.close)$(button.dataset.close).close();else if(button.dataset.why)showReason(button.dataset.why,button);else if(button.dataset.detail)showDetail(button.dataset.detail,button);else if(button.dataset.like)toggleLike(button.dataset.like,button);else if(button.dataset.similar){state.seed_id=button.dataset.similar;$('detailDialog').close();setView('discover');loadRecommendations().then(()=>$('relatedSection').scrollIntoView({block:'start'}));}else if(button.dataset.action==='browse'){startBrowsing();}else if(button.dataset.action==='clear-filters'){clearFilters();}else if(button.dataset.view){setView(button.dataset.view);}else if(button.dataset.method){state.method=button.dataset.method;if(state.view==='compare')setView('discover');loadRecommendations();}else if(button.dataset.removeFilter){state.filters=state.filters.filter(t=>t!==button.dataset.removeFilter);renderFilters();loadRecommendations();}else if(button.dataset.scroll){const [id,direction]=button.dataset.scroll.split(':');$(id).scrollBy({left:$(id).clientWidth*.8*Number(direction),behavior:'smooth'});}});
+document.addEventListener('click',event=>{const button=event.target.closest('button');if(!button)return;if(button.dataset.close)$(button.dataset.close).close();else if(button.dataset.hero)controlHero(button.dataset.hero);else if(button.dataset.why)showReason(button.dataset.why,button);else if(button.dataset.detail)showDetail(button.dataset.detail,button);else if(button.dataset.like)toggleLike(button.dataset.like,button);else if(button.dataset.similar){state.seed_id=button.dataset.similar;$('detailDialog').close();setView('discover');loadRecommendations().then(()=>$('relatedSection').scrollIntoView({block:'start'}));}else if(button.dataset.action==='browse'){startBrowsing();}else if(button.dataset.action==='clear-filters'){clearFilters();}else if(button.dataset.view){setView(button.dataset.view);}else if(button.dataset.method){state.method=button.dataset.method;if(state.view==='compare')setView('discover');loadRecommendations();}else if(button.dataset.removeFilter){state.filters=state.filters.filter(t=>t!==button.dataset.removeFilter);renderFilters();loadRecommendations();}else if(button.dataset.scroll){const [id,direction]=button.dataset.scroll.split(':');$(id).scrollBy({left:$(id).clientWidth*.8*Number(direction),behavior:'smooth'});}});
 document.querySelector('.brand').onclick=event=>{event.preventDefault();setView('discover');window.scrollTo({top:0,behavior:'auto'});};
+$('replacementOptions').onchange=()=>{$('confirmReplacement').disabled=!$('replacementOptions').querySelector('input:checked');};
+$('replacementForm').onsubmit=event=>{event.preventDefault();confirmFavouriteReplacement();};
+$('hero').addEventListener('pointerenter',event=>{if(event.pointerType==='mouse'){heroHovered=true;stopHeroRotation();}});
+$('hero').addEventListener('pointerleave',()=>{heroHovered=false;scheduleHeroRotation();});
+$('hero').addEventListener('focusin',event=>{if($('heroSlide').contains(event.target))stopHeroRotation();});$('hero').addEventListener('focusout',()=>setTimeout(scheduleHeroRotation,0));
+document.addEventListener('visibilitychange',scheduleHeroRotation);
+window.addEventListener('resize',()=>{clearTimeout(heroResizeTimer);heroResizeTimer=setTimeout(sizeHero,100);});
 $('closeReason').onclick=()=>$('reasonDialog').close();$('dismissReason').onclick=()=>$('reasonDialog').close();$('openSources').onclick=event=>showSources(event.currentTarget);
 $('clearFilters').onclick=clearFilters;$('facetList').onchange=()=>{state.filters=[...$('facetList').querySelectorAll('input:checked')].map(input=>input.value);renderFilters();loadRecommendations();};$('limit').onchange=event=>{state.limit=Number(event.target.value);loadRecommendations();};$('seedSelect').onchange=event=>{state.seed_id=event.target.value;loadRecommendations();};$('globalSearch').oninput=event=>{state.search=event.target.value;setView('browse');};$('browseSearch').oninput=event=>{state.search=event.target.value;renderBrowse();};$('sort').onchange=event=>{state.sort=event.target.value;renderBrowse();};$('browseChart').onclick=()=>{state.sort='chart';$('sort').value='chart';state.search='';setView('browse');};
 async function init(){
